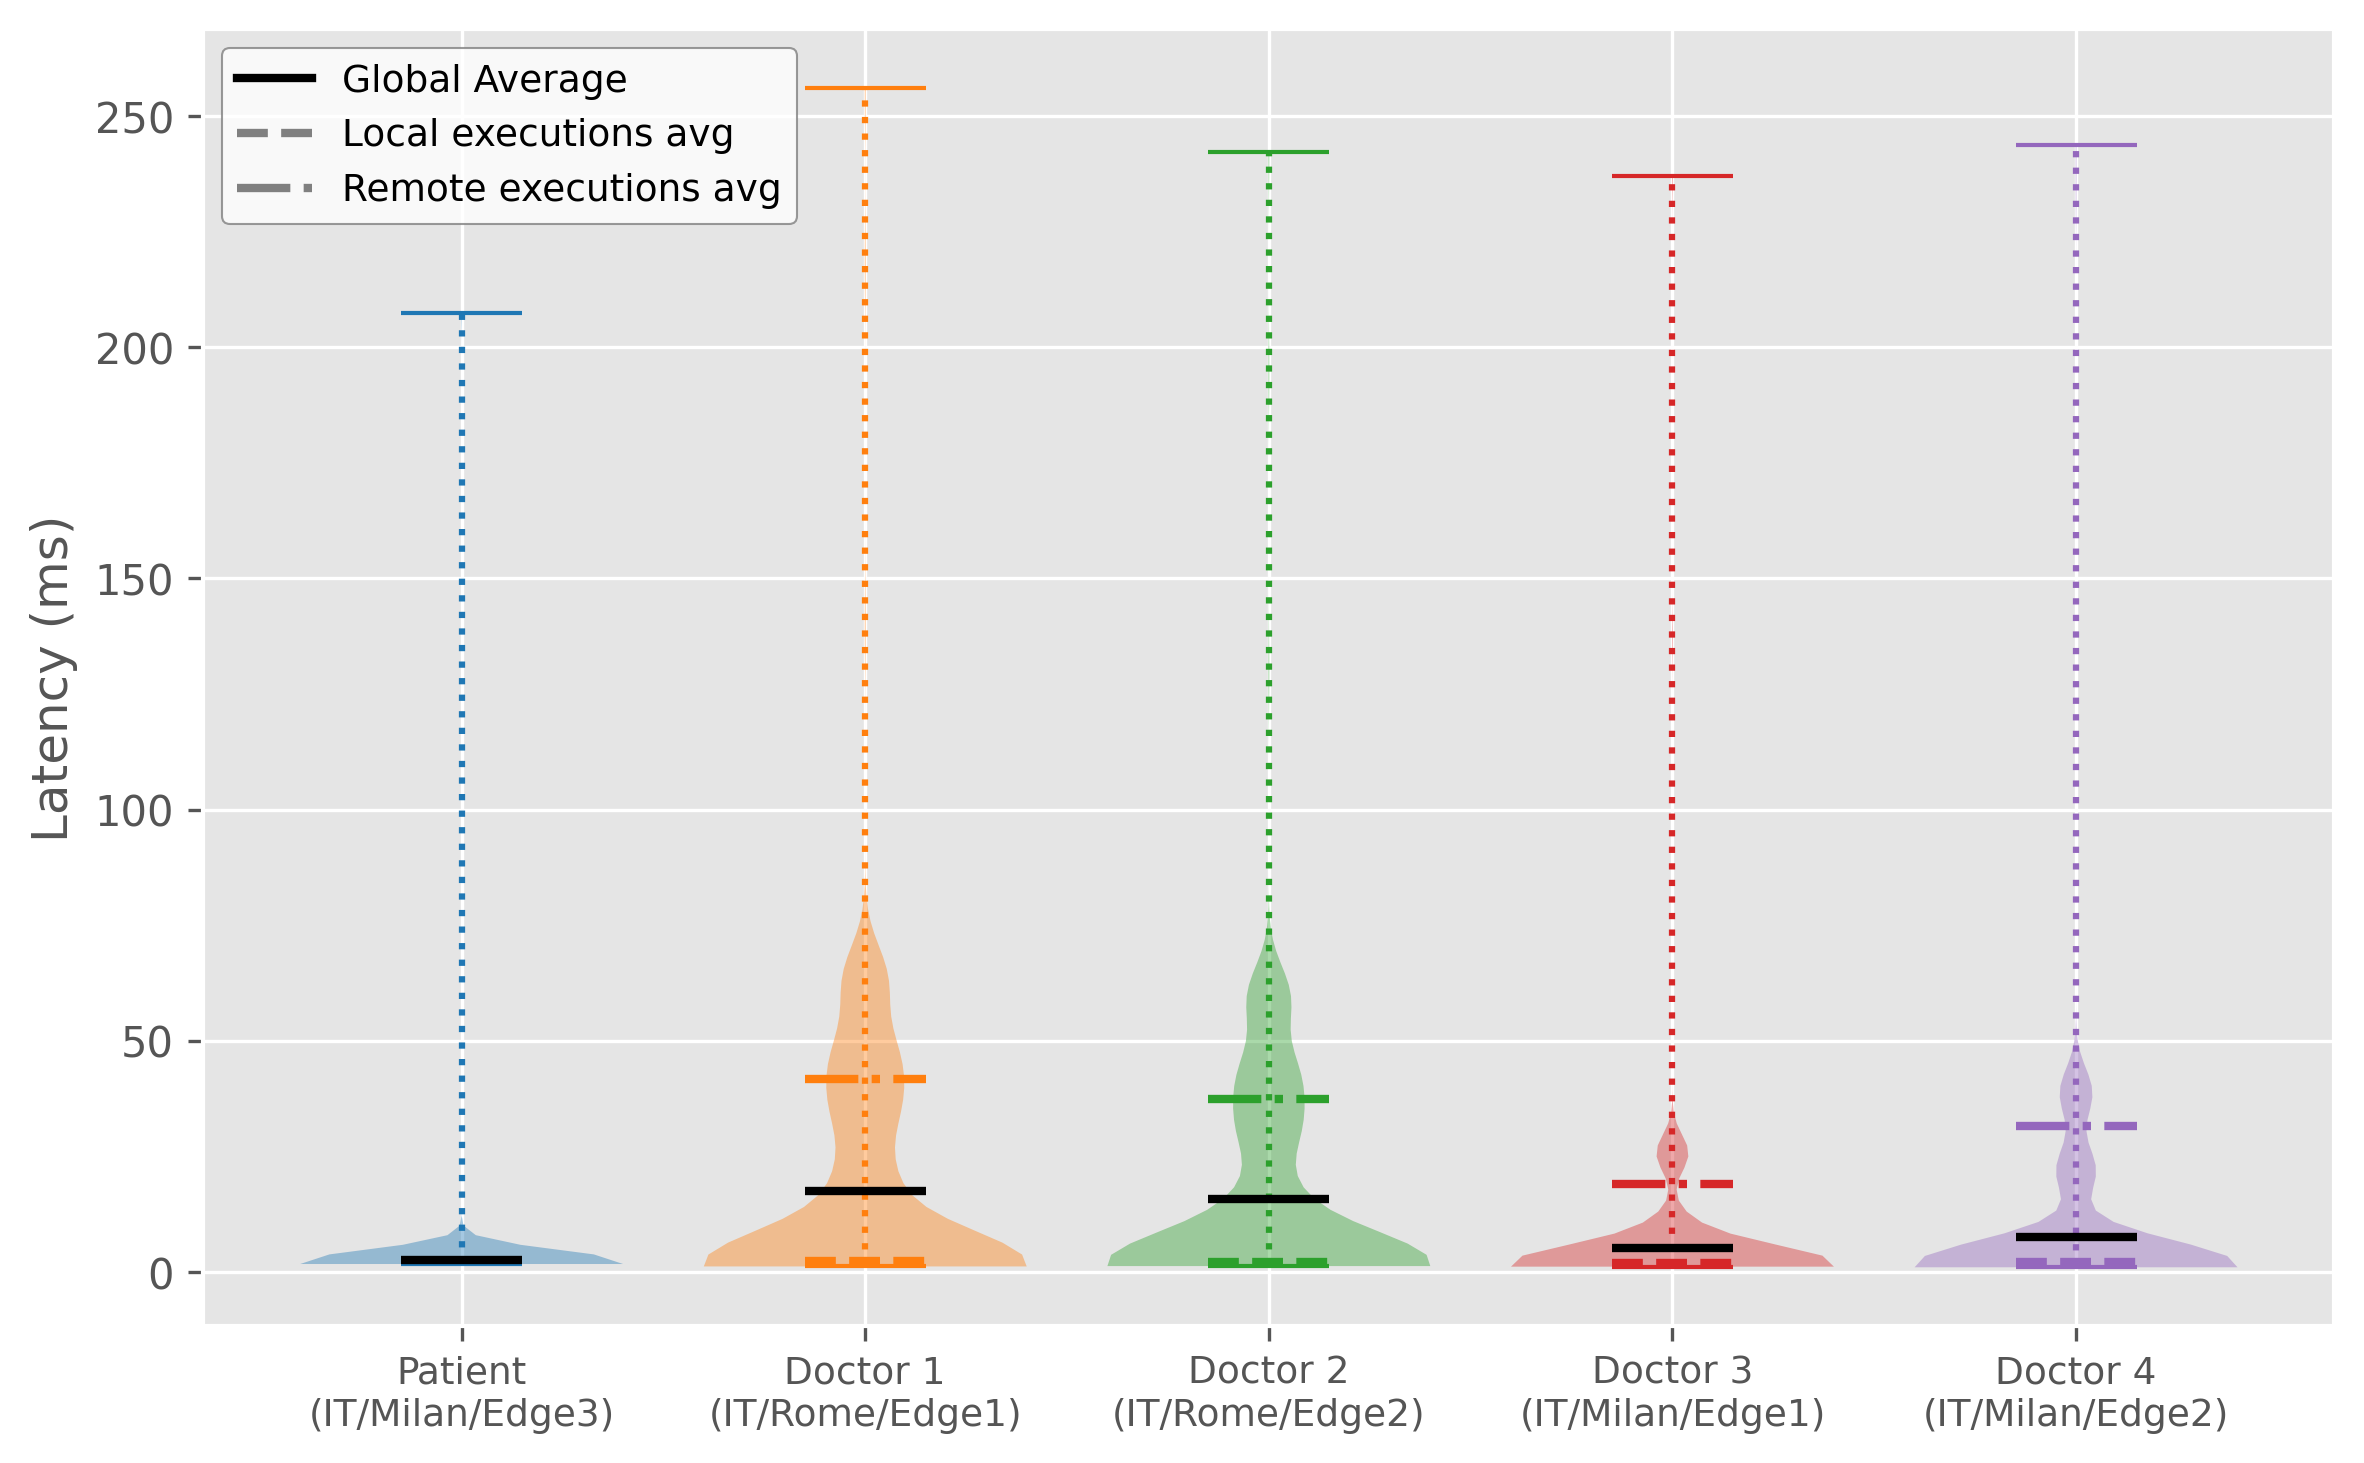
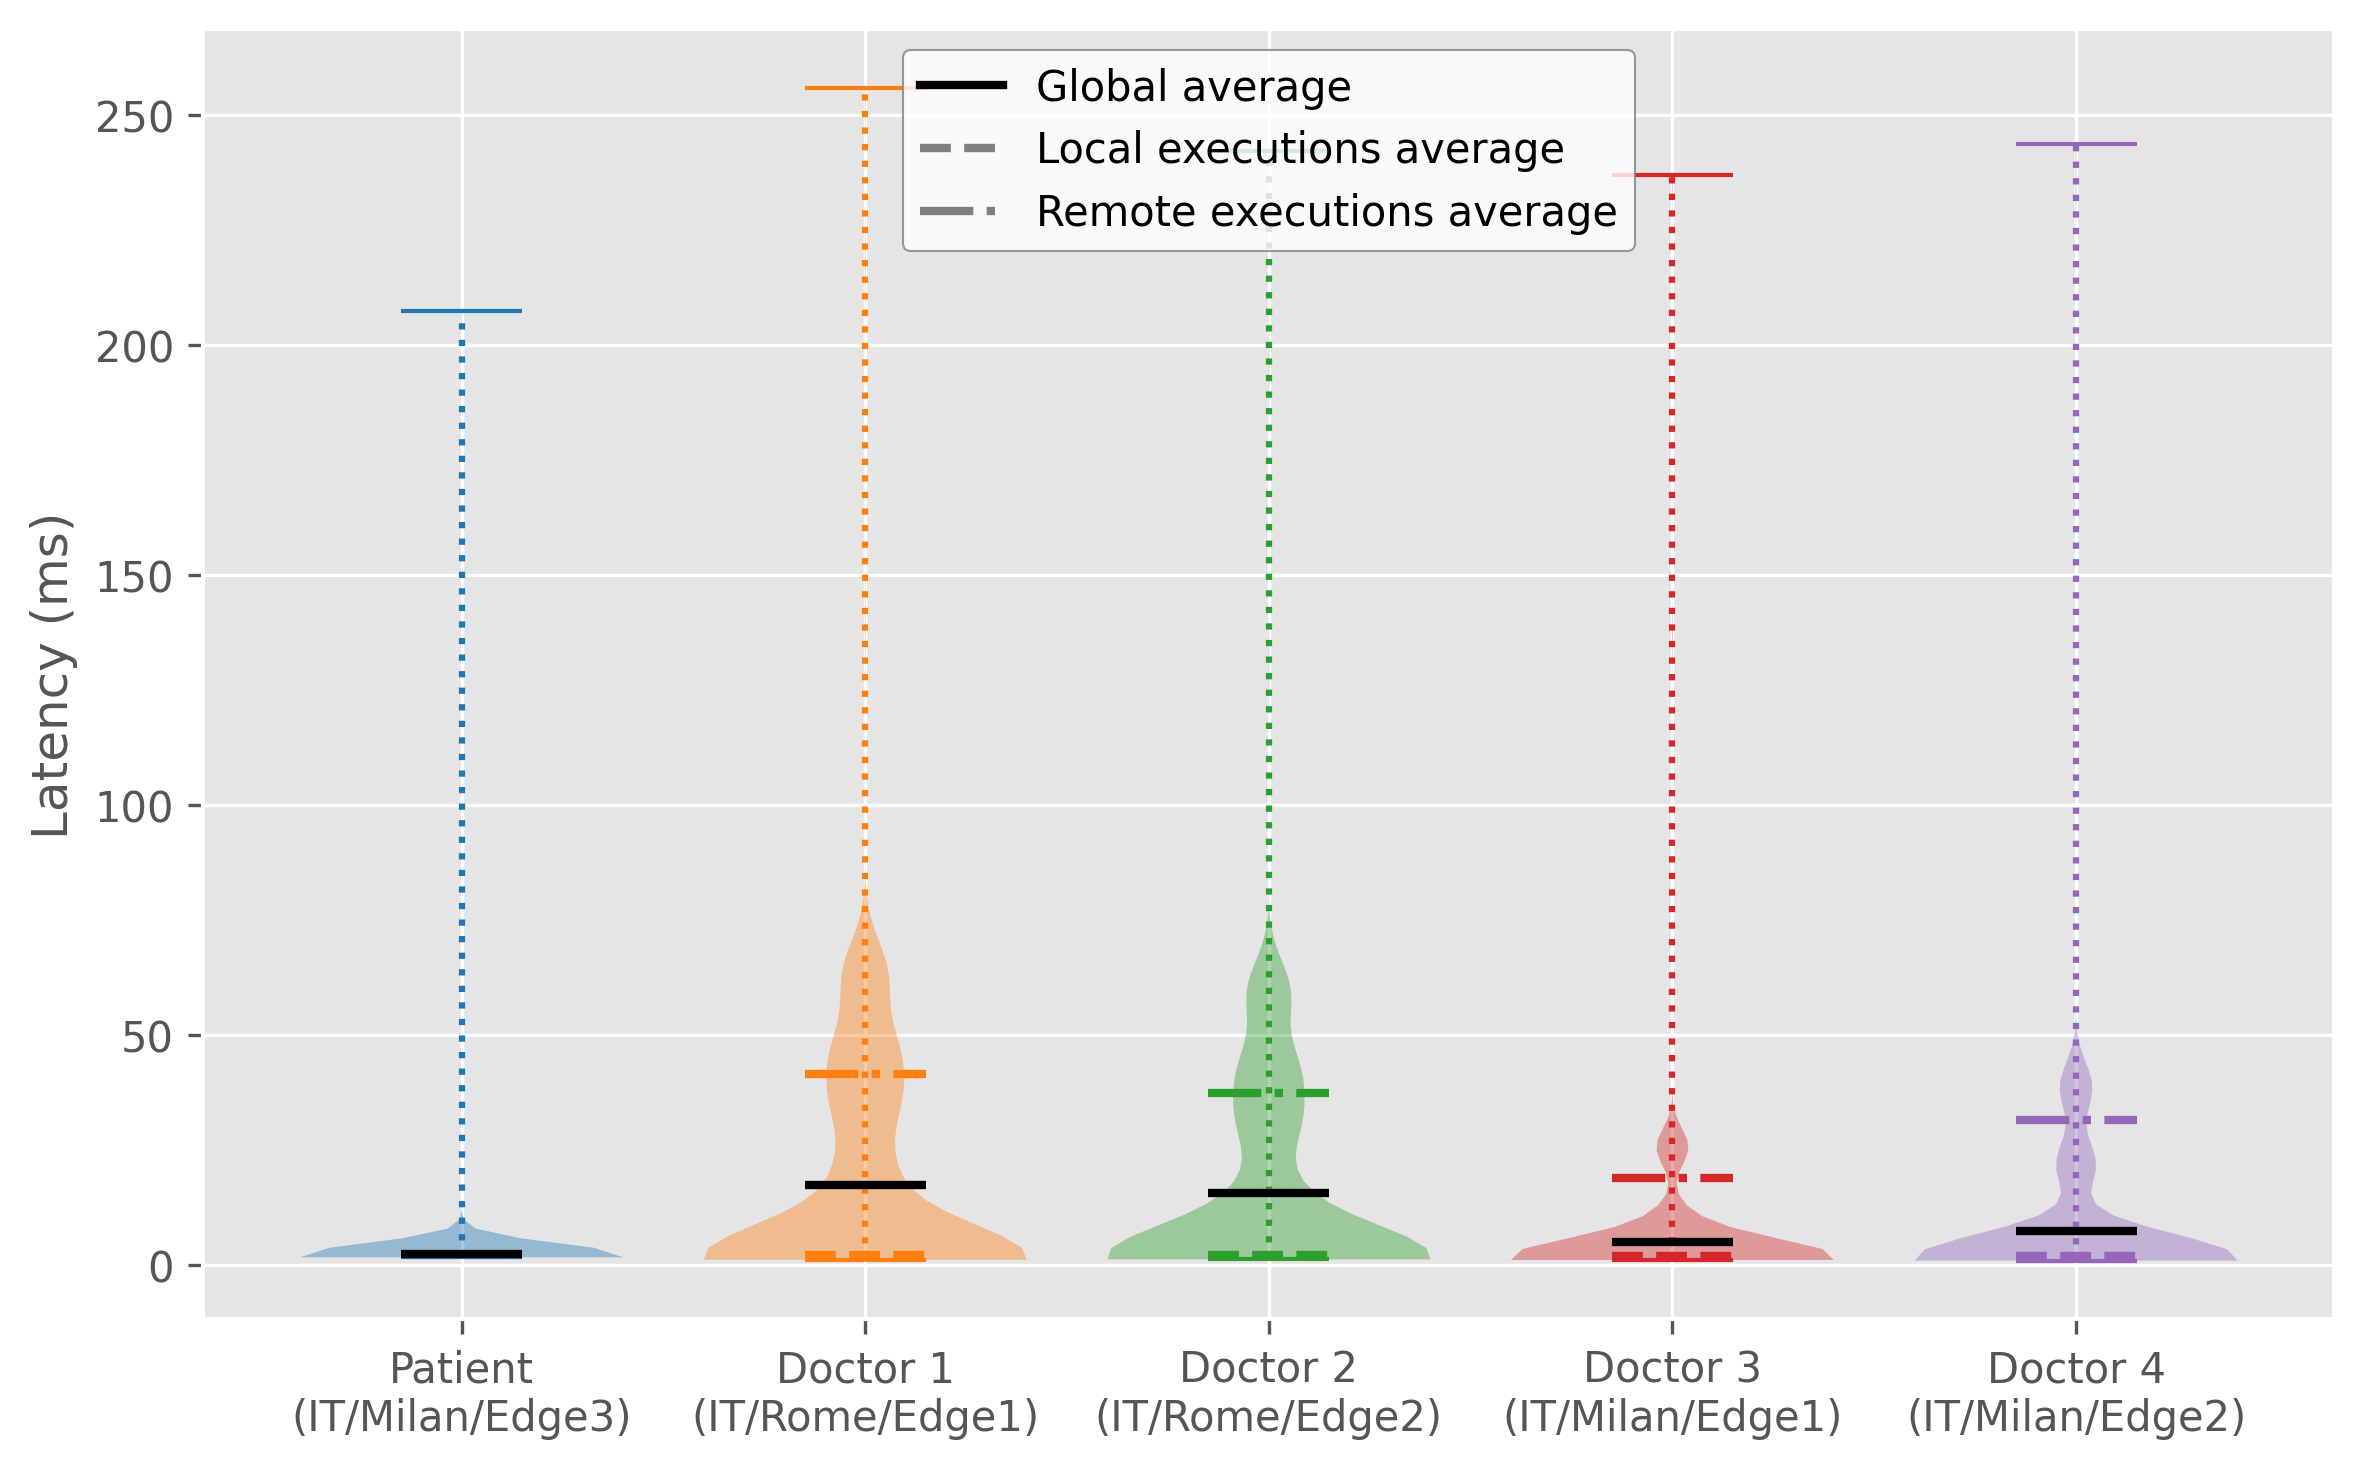
Generalize images

diff --git a/ermes_benchmark/convergence_test/code/plots/latency.py b/ermes_benchmark/convergence_test/code/plots/latency.py
@@ -292,8 +292,8 @@ def local_vs_remote_latency_violin(dfs, scenario, domains):
         base_labels = custom_labels[:n_files]
     elif scenario == "full_traversal":
         base_labels = ["Patient", "Doctor"]
-    elif scenario == "conflict_1" or scenario == "conflict_eventual":
-        base_labels = ["Doctor 1", "Doctor 2"]
+    # elif scenario == "conflict_1" or scenario == "conflict_eventual":
+    #     base_labels = ["Doctor 1", "Doctor 2"]
     elif scenario == "replication":
         base_labels = ["Patient", "Doctor 1", "Doctor 2", "Doctor 3", "Doctor 4"]
 
@@ -489,7 +489,7 @@ def plot_logs_avg_latency(dfs, scenario, domains, show_if_remote=True, max_round
         if "conflict" in scenario:
             fig, ax = plt.subplots(figsize=(6, 5))
         else:
-            fig, ax = plt.subplots(figsize=(8, 5))
+            fig, ax = plt.subplots(figsize=(6, 4))
 
         total_bars_in_group = n_files + 1
         bar_width = 0.9 / total_bars_in_group
@@ -610,12 +610,12 @@ def plot_logs_avg_latency(dfs, scenario, domains, show_if_remote=True, max_round
             # -----------------------------
 
             if i == 0 and "conflict" not in scenario:
-                base_name = "Patient"
+                base_name = "Producer"
             else:
                 if "conflict" in scenario:
-                    base_name = f"Doctor {i + 1}"
+                    base_name = f"Consumer {i + 1}"
                 else:
-                    base_name = f"Doctor {i}"
+                    base_name = f"Consumer {i}"
 
             label_text = f"{base_name} ({domain})"
 
